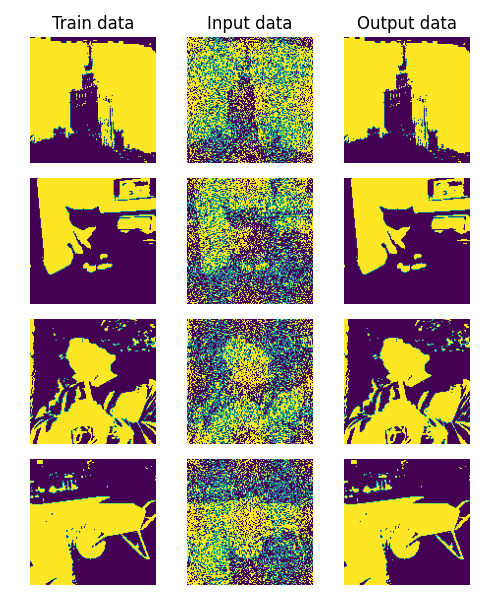
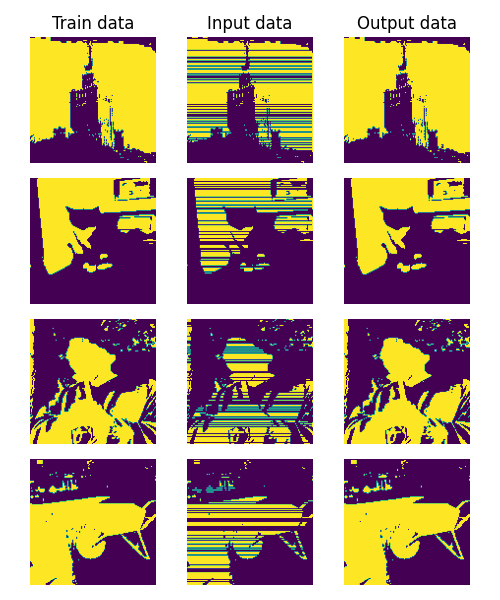
cover

Changed region(s): [[0.36, 0.3, 0.63, 0.99], [0.36, 0.06, 0.63, 0.27]]

diff --git a/Hopfield-Network-master/train.py b/Hopfield-Network-master/train.py
@@ -14,6 +14,8 @@ from skimage.filters import threshold_mean
 from skimage.transform import resize
 import network
 from skimage import io as io
+import random
+
 
 # Utils
 def get_corrupted_input(input, corruption_level):
@@ -22,6 +24,31 @@ def get_corrupted_input(input, corruption_level):
     for i, v in enumerate(input):
         if inv[i]:
             corrupted[i] = -1 * v
+    return corrupted
+
+
+def get_corrupted_input_line(input, corruption_level):
+    corrupted = np.copy(input)
+    inv = np.random.binomial(n=1, p=corruption_level, size=128)
+    x = 127
+    for i in range(0, x):
+        if inv[i]:
+            for n in range(0, x):
+                corrupted[i*(x+1) + n] = -1
+    return corrupted
+
+
+def get_corrupted_input_cover(input, corruption_level, noise_size):
+    corrupted = np.copy(input)
+    inv = np.random.binomial(n=1, p=corruption_level, size=128)
+    x = 128
+    for i in range(0, x - 1):
+        if inv[i]:
+            k = noise_size
+            l = random.randint(0, x - k - 1)
+            for n in range(i, i + k - 1):
+                for m in range(l, l + k - 1):
+                        corrupted[(x - 1)*m + n + i] = -1
     return corrupted
 
 def reshape(data):
@@ -84,8 +111,9 @@ def main():
     model.train_weights(data)
 
     # Generate testset
-    test = [get_corrupted_input(d, 0.3) for d in data]
-
+    #test = [get_corrupted_input(d, 0.48) for d in data] #0.3, 0.5, 0.4, 0.45, 0.48
+    #test = [get_corrupted_input_cover(d, 0.02, 68) for d in data] #60, 65 ,68, 70
+    test = [get_corrupted_input_line(d, 0.3) for d in data]
     predicted = model.predict(test, threshold=0, asyn=False)
     print("Show prediction results...")
     plot(data, test, predicted)
